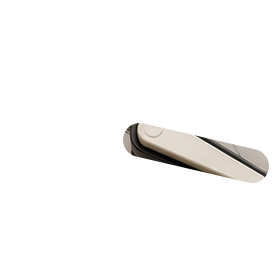
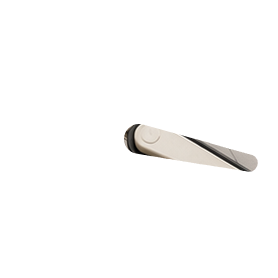
Fix flipper cut-out quality and the instant-drain gameplay
- Flipper sprites recut with a tighter tapered-bat mask centred on the bat,
  excluding the cast shadow/neighbours — clean edges
- Gameplay: launched balls no longer drain in ~1s. The wire ramp now feeds
  the ball to the top-centre (through the bumpers) instead of the right
  outlane; gravity eased to 1.7; outlanes slightly widened
- Removed the bottom rail posts that wedged the ball against the side wall
- Added a generic anti-stuck nudge: on a top-down field a ball can rest on a
  flat ledge (drop-target bank / sling) forever; if a ball sits still above
  the flipper zone it gets a small downward nudge (balls resting on the
  flippers are left alone)
- Bumper kicks now have slight randomness so play varies
- Verified: 0/30 stuck, no-flip survival ~7s (was ~1s), flipper saves keep
  the ball alive 8-40s; 6 physics + 11 smoke tests pass; sw cache -> v5

https://claude.ai/code/session_01SxqG6ZQmwX7iP7kCSPr59e

Changed region(s): [[0.4317, 0.4317, 0.9784, 0.6619]]

diff --git a/pinball/table.js b/pinball/table.js
@@ -42,17 +42,17 @@
   T.SAX = 176; T.SAY = 540;   // SHOOT AGAIN lamp (visual only)
 
   // ── Lower third ───────────────────────────────────
-  T.RAIL_L = { x: 80, top: 470, bot: 545 };
-  T.RAIL_R = { x: 272, top: 470, bot: 545 };
-  T.GUIDE_L = { x1: 80, y1: 545, x2: 120, y2: 592 };
-  T.GUIDE_R = { x1: 272, y1: 545, x2: 228, y2: 592 };
+  T.RAIL_L = { x: 72, top: 470, bot: 545 };
+  T.RAIL_R = { x: 280, top: 470, bot: 545 };
+  T.GUIDE_L = { x1: 72, y1: 545, x2: 120, y2: 592 };
+  T.GUIDE_R = { x1: 280, y1: 545, x2: 228, y2: 592 };
   T.SLING_L = [[110, 500], [152, 556], [110, 556]];
   T.SLING_R = [[242, 500], [200, 556], [242, 556]];
   T.SLING_NL = { x: 0.8, y: -0.6 };   // kick direction (into playfield)
   T.SLING_NR = { x: -0.8, y: -0.6 };
 
   // ── Wire ramp: shooter lane → playfield (cubic bezier) ──
-  T.RAMP = [[363, 312], [374, 250], [322, 236], [252, 300]];
+  T.RAMP = [[363, 312], [380, 232], [300, 224], [188, 262]];
   T.MAXV = 24;
 
   T.bez = function (t) {
@@ -96,7 +96,7 @@
   T.build = function (Matter) {
     const { Engine, World, Bodies, Body, Constraint } = Matter;
     const eng = Engine.create();
-    eng.gravity.y = 1.9;
+    eng.gravity.y = 1.7;
     eng.positionIterations = 8;
     eng.velocityIterations = 6;
 
@@ -117,11 +117,11 @@
     st.push(mkR(T.W - 6, T.H / 2, 12, T.H + 80));
     st.push(mkR(T.LANE_X, -4, 76, 14));
 
-    // Outlane/inlane rails (capsules) + top posts
+    // Outlane/inlane rails (capsules) + top post only
+    // (no bottom post — it used to wedge the ball against the side wall)
     [T.RAIL_L, T.RAIL_R].forEach(r => {
       st.push(mkR(r.x, (r.top + r.bot) / 2, 7, r.bot - r.top, { restitution: 0.3 }));
       st.push(mkC(r.x, r.top, 4.5, { restitution: 0.7 }));
-      st.push(mkC(r.x, r.bot, 4, { restitution: 0.3 }));
     });
     // Inlane guides down to flipper pivots
     [T.GUIDE_L, T.GUIDE_R].forEach(gd => {
@@ -231,6 +231,24 @@
     return true;
   };
 
+  // Anti-stuck: a top-down playfield has no tilt, so a ball can rest on a flat
+  // ledge (drop-target bank, sling) forever. If a ball sits nearly still above
+  // the flipper zone, give it a small downward nudge to free it. Call once per
+  // physics substep, after the solver. Balls resting on the flippers (which is
+  // legitimate) and the lane ball are left alone.
+  T.antiStuck = function (tb, b) {
+    const { Body } = tb.M;
+    const pl = b.plugin;
+    if (pl.inLane || pl.guide) { pl.slow = 0; return; }
+    const v = Math.hypot(b.velocity.x, b.velocity.y);
+    if (v < 0.55 && b.position.y < T.FLY - 26) {
+      if ((pl.slow = (pl.slow || 0) + 1) > 84) {        // ~0.7s at 120 Hz
+        Body.setVelocity(b, { x: (Math.random() - 0.5) * 3.5, y: 2.6 + Math.random() * 1.6 });
+        pl.slow = 0;
+      }
+    } else pl.slow = 0;
+  };
+
   const inRect = (px, py, rx, ry, hw, hh, a) => {
     const ca = Math.cos(-a), sa = Math.sin(-a), dx = px - rx, dy = py - ry;
     const lx = dx * ca - dy * sa, ly = dx * sa + dy * ca;
@@ -268,7 +286,12 @@
         if (dx * dx + dy * dy < rr * rr) {
           b.plugin.cd = 40; b.plugin.fl = 64;
           const d = Math.hypot(dx, dy) || 1;
-          Body.setVelocity(ball, { x: dx / d * 9.5 + v.x * 0.25, y: dy / d * 9.5 + v.y * 0.25 });
+          // kick away from centre, with a little randomness so play varies
+          const ja = (Math.random() - 0.5) * 0.7, ca = Math.cos(ja), sa = Math.sin(ja);
+          let nx = dx / d, ny = dy / d;
+          const rx = nx * ca - ny * sa, ry = nx * sa + ny * ca;
+          const kp = 8.5 + Math.random() * 2;
+          Body.setVelocity(ball, { x: rx * kp + v.x * 0.2, y: ry * kp + v.y * 0.2 });
           cb('bumper', i, b.position);
         }
       });

diff --git a/pinball/sw.js b/pinball/sw.js
@@ -1,5 +1,5 @@
 /* AURORA PINBALL — service worker: precache everything for offline play. */
-const VERSION = 'aurora-v4';
+const VERSION = 'aurora-v5';
 const ASSETS = [
   './',
   './index.html',

diff --git a/pinball/index.html b/pinball/index.html
@@ -379,6 +379,7 @@ function physStep(){
 
   for (const b of balls.slice()){
     if (!T.clampBall(tb, b)){ onDrain(b); continue; }
+    T.antiStuck(tb, b);
     if (b.position.y > PB + 14 && b.position.x < PR + 6) onDrain(b);
   }
 